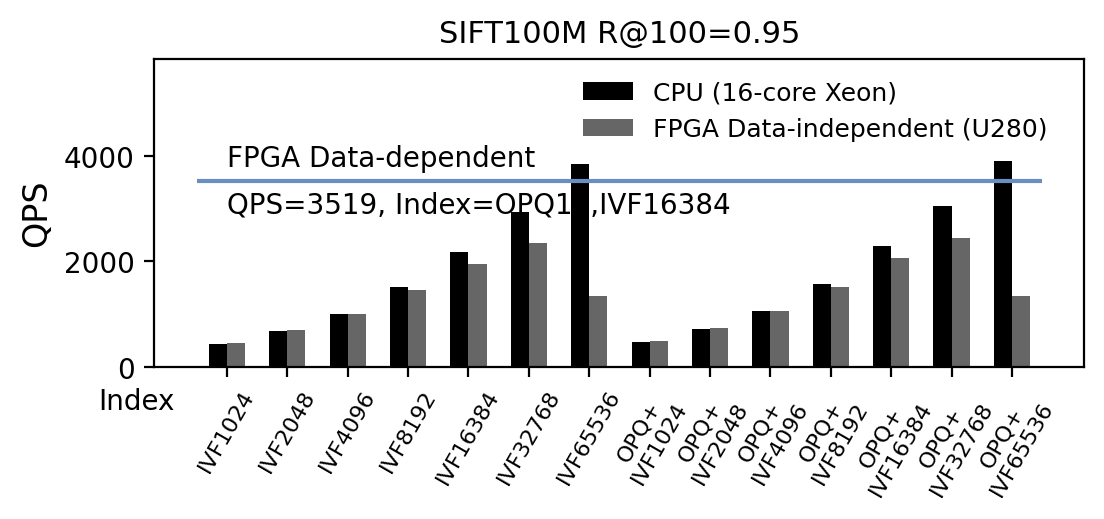
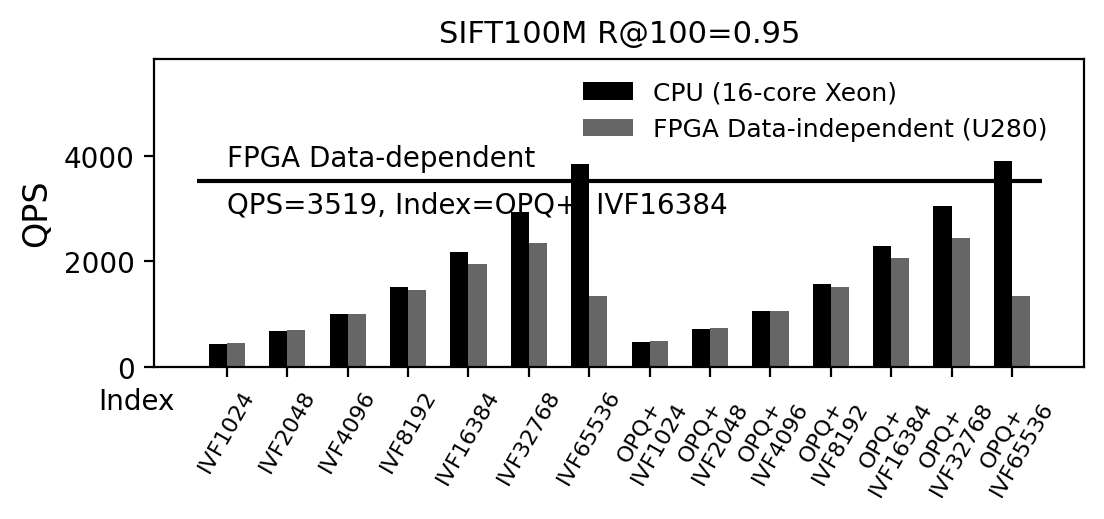
finish paper plots

Changed region(s): [[0.1848, 0.3391, 0.9547, 0.4316]]

diff --git a/CPU_FPGA_throughput_from_dict.py b/CPU_FPGA_throughput_from_dict.py
@@ -158,32 +158,36 @@ if args.dbname == 'SIFT100M' and args.topK == 1 and args.recall_goal == 0.25:
     optimized_FPGA_throughput = 31033
     ax.text(0, optimized_FPGA_throughput * 1.05, 'FPGA Data-dependent', fontsize=10, horizontalalignment='left', verticalalignment='bottom')
     ax.text(0, optimized_FPGA_throughput * 0.95, 'QPS={}, Index={}'.format(optimized_FPGA_throughput, 'IVF1024'), fontsize=10, horizontalalignment='left', verticalalignment='top')
-    ax.hlines(y=optimized_FPGA_throughput, xmin=-0.5, xmax=13.5, linestyles='solid', color='#6C8EBF')
+    ax.hlines(y=optimized_FPGA_throughput, xmin=-0.5, xmax=13.5, linestyles='solid', color='black')
 if args.dbname == 'SIFT100M' and args.topK == 1 and args.recall_goal == 0.3:
     optimized_FPGA_throughput = 27709 # 126 MHz
     ax.text(0, optimized_FPGA_throughput * 1.05, 'FPGA Data-dependent', fontsize=10, horizontalalignment='left', verticalalignment='bottom')
     ax.text(0, optimized_FPGA_throughput * 0.95, 'QPS={}, Index={}'.format(optimized_FPGA_throughput, 'IVF4096'), fontsize=10, horizontalalignment='left', verticalalignment='top')
-    ax.hlines(y=optimized_FPGA_throughput, xmin=-0.5, xmax=13.5, linestyles='solid', color='#6C8EBF')
+    ax.hlines(y=optimized_FPGA_throughput, xmin=-0.5, xmax=13.5, linestyles='solid', color='black')
 elif args.dbname == 'SIFT100M' and args.topK == 10 and args.recall_goal == 0.6:
     optimized_FPGA_throughput = 30965
     ax.text(0, optimized_FPGA_throughput * 1.05, 'FPGA Data-dependent', fontsize=10, horizontalalignment='left', verticalalignment='bottom')
     ax.text(0, optimized_FPGA_throughput * 0.95, 'QPS={}, Index={}'.format(optimized_FPGA_throughput, 'IVF4096'), fontsize=10, horizontalalignment='left', verticalalignment='top')
-    ax.hlines(y=optimized_FPGA_throughput, xmin=-0.5, xmax=13.5, linestyles='solid', color='#6C8EBF')
+    ax.hlines(y=optimized_FPGA_throughput, xmin=-0.5, xmax=13.5, linestyles='solid', color='black')
 elif args.dbname == 'SIFT100M' and args.topK == 10 and args.recall_goal == 0.8:
     optimized_FPGA_throughput = 11035
     ax.text(0, optimized_FPGA_throughput * 1.05, 'FPGA Data-dependent', fontsize=10, horizontalalignment='left', verticalalignment='bottom')
-    ax.text(0, optimized_FPGA_throughput * 0.95, 'QPS={}, Index={}'.format(optimized_FPGA_throughput, 'OPQ16,IVF8192'), fontsize=10, horizontalalignment='left', verticalalignment='top')
-    ax.hlines(y=optimized_FPGA_throughput, xmin=-0.5, xmax=13.5, linestyles='solid', color='#6C8EBF')
+    ax.text(0, optimized_FPGA_throughput * 0.95, 'QPS={}, Index={}'.format(optimized_FPGA_throughput, 'OPQ + IVF8192'), fontsize=10, horizontalalignment='left', verticalalignment='top')
+    ax.hlines(y=optimized_FPGA_throughput, xmin=-0.5, xmax=13.5, linestyles='solid', color='black')
 elif args.dbname == 'SIFT100M' and args.topK == 100 and args.recall_goal == 0.95:
     optimized_FPGA_throughput = 3519
     ax.text(0, optimized_FPGA_throughput * 1.05, 'FPGA Data-dependent', fontsize=10, horizontalalignment='left', verticalalignment='bottom')
-    ax.text(0, optimized_FPGA_throughput * 0.95, 'QPS={}, Index={}'.format(optimized_FPGA_throughput, 'OPQ16,IVF16384'), fontsize=10, horizontalalignment='left', verticalalignment='top')
-    ax.hlines(y=optimized_FPGA_throughput, xmin=-0.5, xmax=13.5, linestyles='solid', color='#6C8EBF')
+    ax.text(0, optimized_FPGA_throughput * 0.95, 'QPS={}, Index={}'.format(optimized_FPGA_throughput, 'OPQ+  IVF16384'), fontsize=10, horizontalalignment='left', verticalalignment='top')
+    ax.hlines(y=optimized_FPGA_throughput, xmin=-0.5, xmax=13.5, linestyles='solid', color='black')
 
 best_qps_cpu = np.amax(y_cpu)
 best_qps_fpga = np.amax(y_fpga)
-print("Speedup over CPU baseline: {:.2f} x".format(optimized_FPGA_throughput / best_qps_cpu))
-print("Speedup over FPGA baseline: {:.2f} x".format(optimized_FPGA_throughput / best_qps_fpga))
+worst_qps_cpu = np.amin([y for y in y_cpu if y != 0])
+worst_qps_fpga = np.amin([y for y in y_fpga if y != 0])
+print("Speedup over CPU best baseline: {:.2f} x".format(optimized_FPGA_throughput / best_qps_cpu))
+print("Speedup over FPGA best baseline: {:.2f} x".format(optimized_FPGA_throughput / best_qps_fpga))
+print("Speedup over CPU worst baseline: {:.2f} x".format(optimized_FPGA_throughput / worst_qps_cpu))
+print("Speedup over FPGA worst baseline: {:.2f} x".format(optimized_FPGA_throughput / worst_qps_fpga))
 
 label_font = 12
 tick_font = 8

diff --git a/HNSW_performance.py b/HNSW_performance.py
@@ -14,45 +14,73 @@ title_font = 14
 
 fig, ax = plt.subplots(1, 1, figsize=(6, 1.5))
 
-x_FPGA = np.array([0, 0.2, 0.4]) + 0.2
-x_CPU = np.array([0, 0.2, 0.4, 0.6, 0.8, 1.0]) + 0.4 + x_FPGA[-1]
+x_FPGA_opt = np.array([0, 0.3, 0.6]) + 0.2 # no opt; opt 1 = iter-ovelap; opt 2 = iter-overlap + batching
+x_FPGA_bank_num = 0.4 + float(x_FPGA_opt[-1]) + np.array([0, 0.2, 0.4])
+x_FPGA_replication = float(0.4) + float(x_FPGA_bank_num[-1]) + np.array([0, 0.2, 0.4, 0.6])
+x_CPU = 0.4 + float(x_FPGA_replication[-1]) + np.array([0, 0.2, 0.4, 0.6, 0.8, 1.0]) 
 
 
 ########### TODO: Performance of FPGA (2, 4, 8 banks) using ef=128 #############
 ########### TODO: Performance of CPU (1~32 threads) using m4.4xlarge #############
-throughput_FPGA = np.array([4483, 6356, 10000])  # 2, 4, 8 banks
+throughput_FPGA_opt = np.array([3650, 4760, 6410]) # 2 banks -> no opt; opt 1 = iter-ovelap; opt 2 = iter-overlap + batching
+throughput_FPGA_bank_num = np.array([6410, 9900, 11100])  # opt 2: 2, 4, 8 banks
+throughput_FPGA_replication = np.array([6250, 12600, 18900, 25300]) # rep opt 1 by 1, 2, 3, 4 times
 throughput_CPU= np.array([0.45, 0.72, 1.25, 1.99, 2.32, 2.3]) * 1e4# 1, 2, 4, 8, 16, 32 threads
 
-max_perf = np.maximum(np.max(throughput_FPGA), np.max(throughput_CPU))
+max_perf = np.maximum(np.max(throughput_FPGA_replication), np.max(throughput_CPU))
 
-ax.bar(x_FPGA, throughput_FPGA, width=0.1) #, color='#92C6FF')
+ax.bar(x_FPGA_opt, throughput_FPGA_opt, width=0.1) #, color='#92C6FF')
+ax.bar(x_FPGA_bank_num, throughput_FPGA_bank_num, width=0.1) #, color='#92C6FF')
+ax.bar(x_FPGA_replication, throughput_FPGA_replication, width=0.1) #, color='#92C6FF')
 ax.bar(x_CPU, throughput_CPU, width=0.1) #, color=['#97F0AA', "#a1f1b2", "#abf3bb", "#b6f4c3", "#c0f6cc", "#cbf7d4"])
 
-ax.set_xticks(list(x_FPGA) + list(x_CPU))
-ax.set_xticklabels(["2", "4", "8", "1", "2", "4", "8", "16", "32"],
-           fontsize=tick_font, rotation=0)
+x_tick_list = list(x_FPGA_opt) + list(x_FPGA_bank_num) + list(x_FPGA_replication) + list(x_CPU)
+ax.set_xticks(x_tick_list)
 
+ax.set_xticklabels([
+        # opt
+        "Base", "Opt.1", "Opt.2", \
+        # bank num
+        "2", "4", "8", \
+        # replicates
+        "1", "2", "3", "4", \
+        #  CPU
+        "1", "2", "4", "8", "16", "32"],
+        fontsize=tick_label_font, rotation=0)
 
-ax.text(x_FPGA[0], 0.9 * max_perf, 'R@1=97%; ef=128',
+ax.text(np.average(x_FPGA_opt), -0.2 * max_perf, 'FPGA designs',
+        horizontalalignment='center',
+        verticalalignment='top',
+        rotation='horizontal',
+        fontsize=tick_label_font)
+
+ax.text(np.average(x_FPGA_bank_num), -0.2 * max_perf, 'FPGA #banks', # (Opt.2)
+        horizontalalignment='center',
+        verticalalignment='top',
+        rotation='horizontal',
+        fontsize=tick_label_font)
+
+ax.text(np.average(x_FPGA_replication), -0.2 * max_perf, 'FPGA #replicas', # (Opt.1)
+        horizontalalignment='center',
+        verticalalignment='top',
+        rotation='horizontal',
+        fontsize=tick_label_font)
+
+ax.text(np.average(x_CPU), -0.2 * max_perf, ' CPU #threads', # (32-core+16 banks)
+        horizontalalignment='center',
+        verticalalignment='top',
+        rotation='horizontal',
+        fontsize=tick_label_font)
+
+ax.text(x_tick_list[0], 0.8 * max_perf, 'R@1=97%; L=128',
         horizontalalignment='left',
-        verticalalignment='top',
-        rotation='horizontal',
         fontsize=legend_font)
-
-ax.text(np.average(x_FPGA), -0.2 * max_perf, 'FPGA (different bank numbers)',
-        horizontalalignment='center',
-        verticalalignment='top',
-        rotation='horizontal',
-        fontsize=tick_label_font)
-
-ax.text(np.average(x_CPU), -0.2 * max_perf, 'CPU (16 channels, different thread numbers)',
-        horizontalalignment='center',
-        verticalalignment='top',
-        rotation='horizontal',
-        fontsize=tick_label_font)
+# ax.text(np.average(x_tick_list), 1.1 * max_perf, 'R@1=97%; L=128',
+#         horizontalalignment='center',
+#         fontsize=legend_font)
 
 ax.set_ylabel('QPS', fontsize=label_font)
-ax.ticklabel_format(axis='y', style='scientific', scilimits=(0,0))
+# ax.ticklabel_format(axis='y', style='scientific', scilimits=(0,0))
 
 # plt.grid(True)
 plt.xlim((0, x_CPU[-1] + 0.2))
